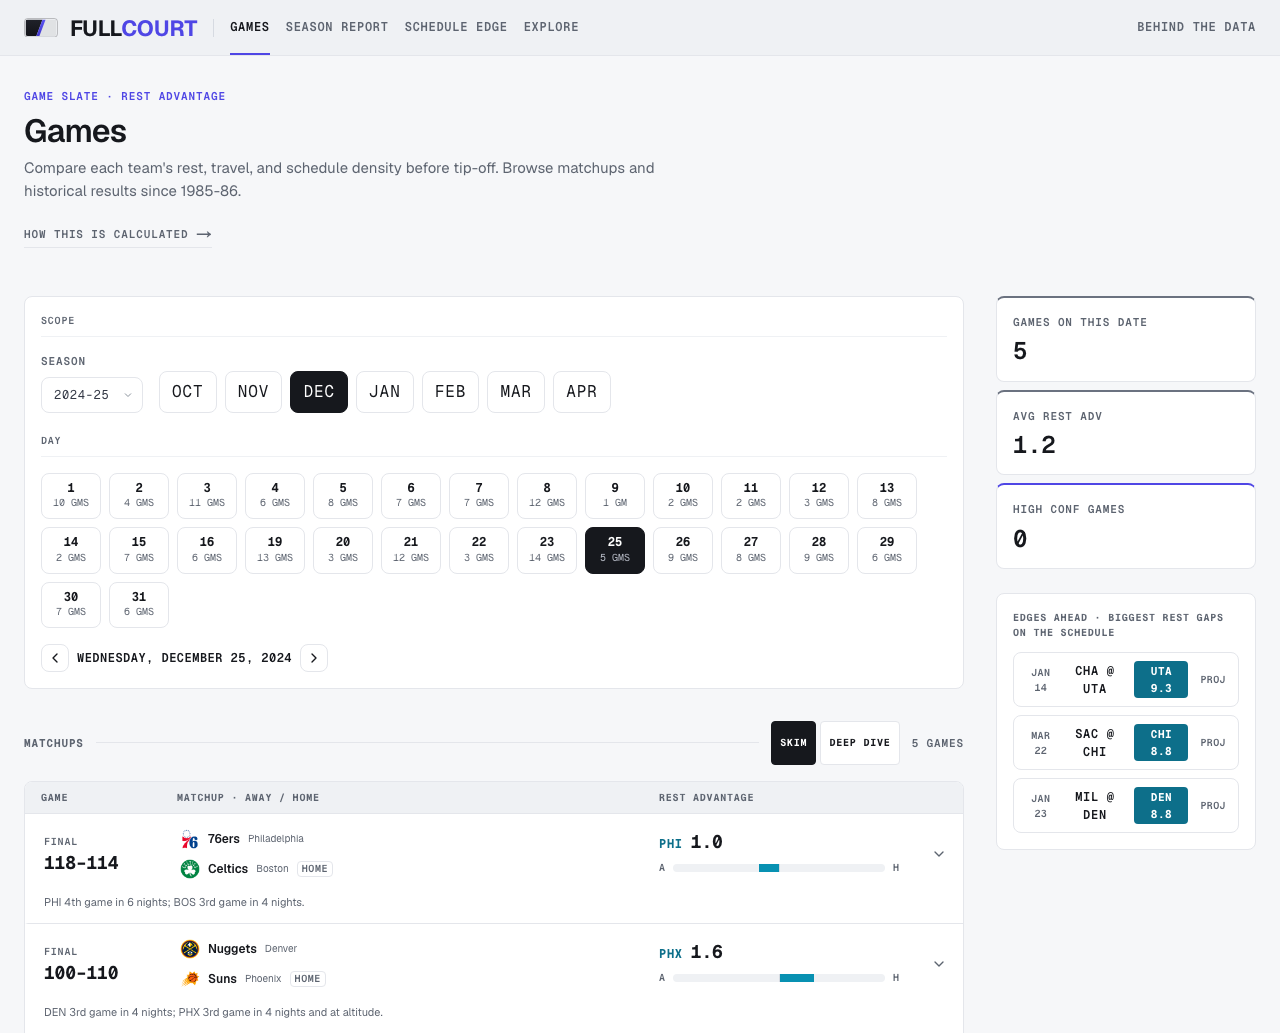
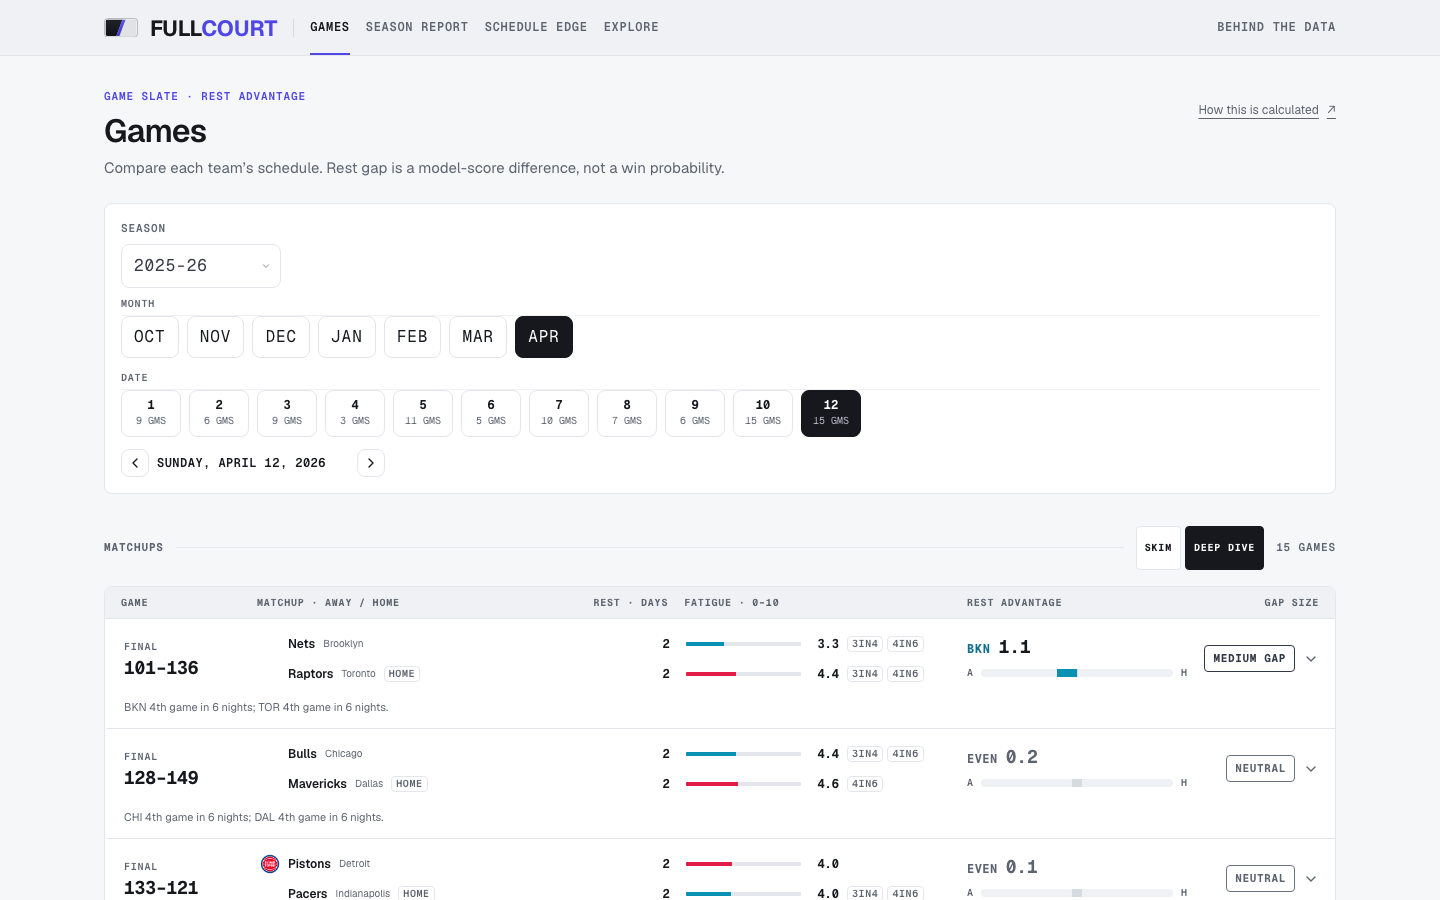
Refresh interface screenshots and archive documentation

diff --git a/README.md b/README.md
@@ -42,18 +42,18 @@ to that walkthrough in the application.
 | [Shooting by Rest](https://fullcourt-nba.vercel.app/shooting) | Effective field goal percentage on no rest versus three or more days off. Rest comes from each player's appearances. Single-season splits are noisy; career estimates use shrinkage toward the league mean. |
 | [Expected Shot Value](https://fullcourt-nba.vercel.app/shot-quality) | Expected shooting value by court location. The model does not observe defender distance, shot-clock pressure, or shot difficulty beyond location. |
 | [Availability Cost](https://fullcourt-nba.vercel.app/availability) | The estimated margin associated with a missing rotation player, controlling for team strength and schedule factors. Absences are identified after games, so this is not a lineup forecast. |
-| [Officiating](https://fullcourt-nba.vercel.app/officiating) | NBA Last Two Minute report findings by season, team, and call type, with the NBA’s verdicts inside each game. Covers selected close-game endings; earlier referee studies remain in the research archive. |
+| [Officiating](https://fullcourt-nba.vercel.app/officiating) | NBA Last Two Minute findings across 12 regular seasons (2014–15 through 2025–26), by team and call type, with the NBA’s verdicts inside each game. Covers selected close-game endings; earlier referee studies remain in the research archive. |
 
 ## Screenshots
 
-Captured from the deployed application; [capture provenance](docs/screenshots/manifest.json).
+Captured from a production build; [capture provenance](docs/screenshots/manifest.json).
 Live pages carry the latest data.
 
 <img src="docs/screenshots/games.png" alt="Games board with season and date controls above the matchup table." width="900" />
 
 <img src="docs/screenshots/shooting.png" alt="Compact player shooting table with both rest splits, attempt counts, and signed difference cells." width="900" />
 
-<img src="docs/screenshots/officiating.png" alt="Officiating page showing the missed-call share, three-season context, and a games-first report browser." width="900" />
+<img src="docs/screenshots/officiating.png" alt="Officiating page showing the missed-call share, season context and a link to game reviews." width="900" />
 
 ## How the fatigue score works
 

diff --git a/docs/DATA_PIPELINE.md b/docs/DATA_PIPELINE.md
@@ -64,7 +64,7 @@ study, exclusions, amendments, and authorization boundary are in
 | Previous-round workload | `ml/compute_prior_grind.py`, `playoff_rest_report.py` | Published playoff facts |
 | Shot Value | `collect_shot_data.py` → `aggregate_shot_grid.py` → `sq4_train_shot_value.py` / `sq4b_train_gbm.py` → `sq5_write_surface.py` | Manual-schema shot tables and `/api/shot-quality` |
 | Historical referee studies | `fetch_officials.ts`, `fetch_playoff_officials.ts`, `analyze_officials_splits.ts`, `ml/referee_*.py`, `build_referee_legends.py` | Committed exports, rendered at `/behind-the-data/referees/archive` |
-| Officiating | `ml/collect_l2m_season.py` → `publish_officiating.py` | Compact season index and content-addressed public report JSON |
+| Officiating | `ml/collect_l2m_season.py` → `publish_officiating.py`; historical PDF/JSON archive normalization described in [operations](OFFICIATING.md) | Compact season index and content-addressed public report JSON |
 
 Paths without a prefix in the producer column are under `scripts/`. Do not run all these tools
 on every update: they have different data dependencies, validation protocols, and write scopes.

diff --git a/docs/FRONTEND.md b/docs/FRONTEND.md
@@ -82,6 +82,9 @@ negative, bounded at ±10 percentage points; uncertain estimates stay muted. Off
 blue for missed calls and gray for incorrect whistles, with direct text labels. Color never
 replaces the number, sign, category, or uncertainty text.
 
+Games exposes Season → Month → Date selection. Selected chips scroll horizontally into view without
+moving the page vertically. Season selectors share one labeled component across studies. Deep Dive uses
+the full desktop width; narrower desktop/tablet tables scroll in a keyboard-focusable region.
 Mobile Games shows teams, status, and rest advantage without sideways scrolling. Shooting keeps
 identity, both splits, and samples available in compact rows. Shooting keeps a short signed-value interpretation key visible; rest definitions, uncertainty
 explanation and coverage expand on demand. Officiating initially offers the common call types
